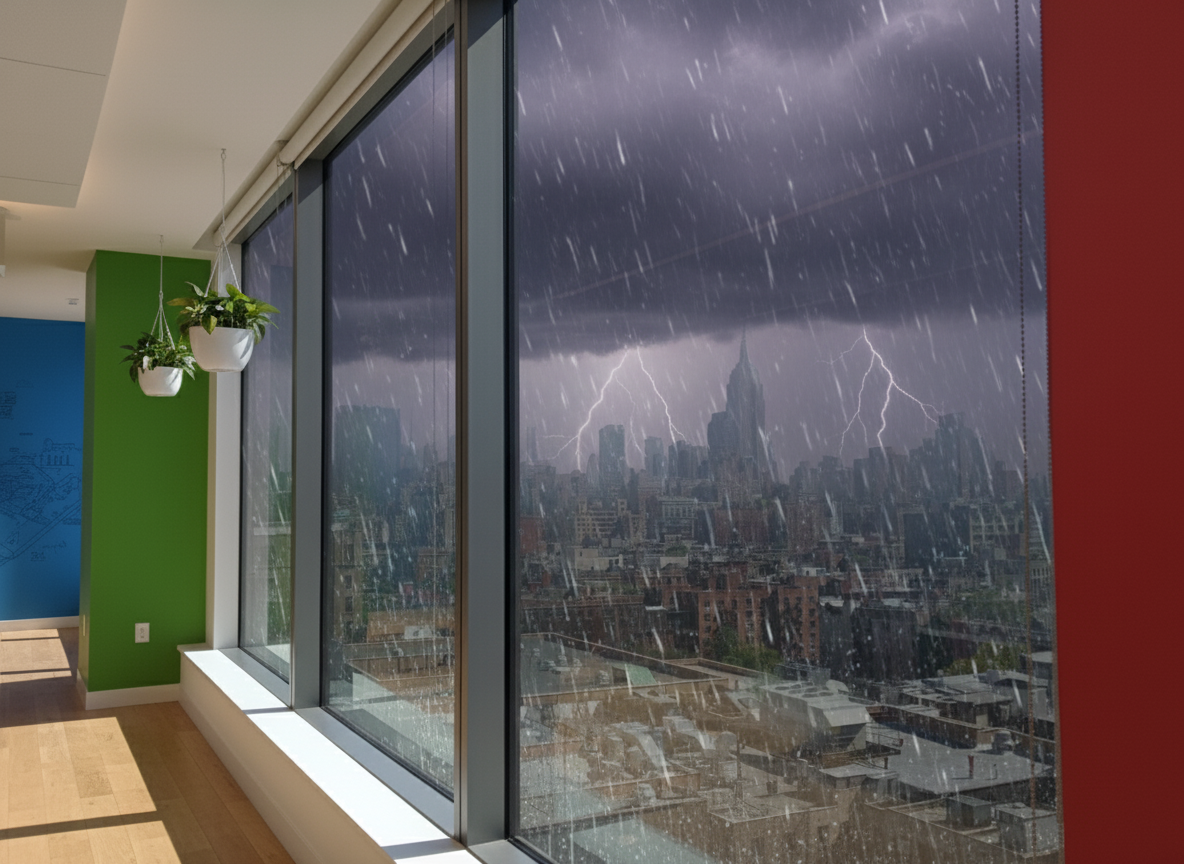
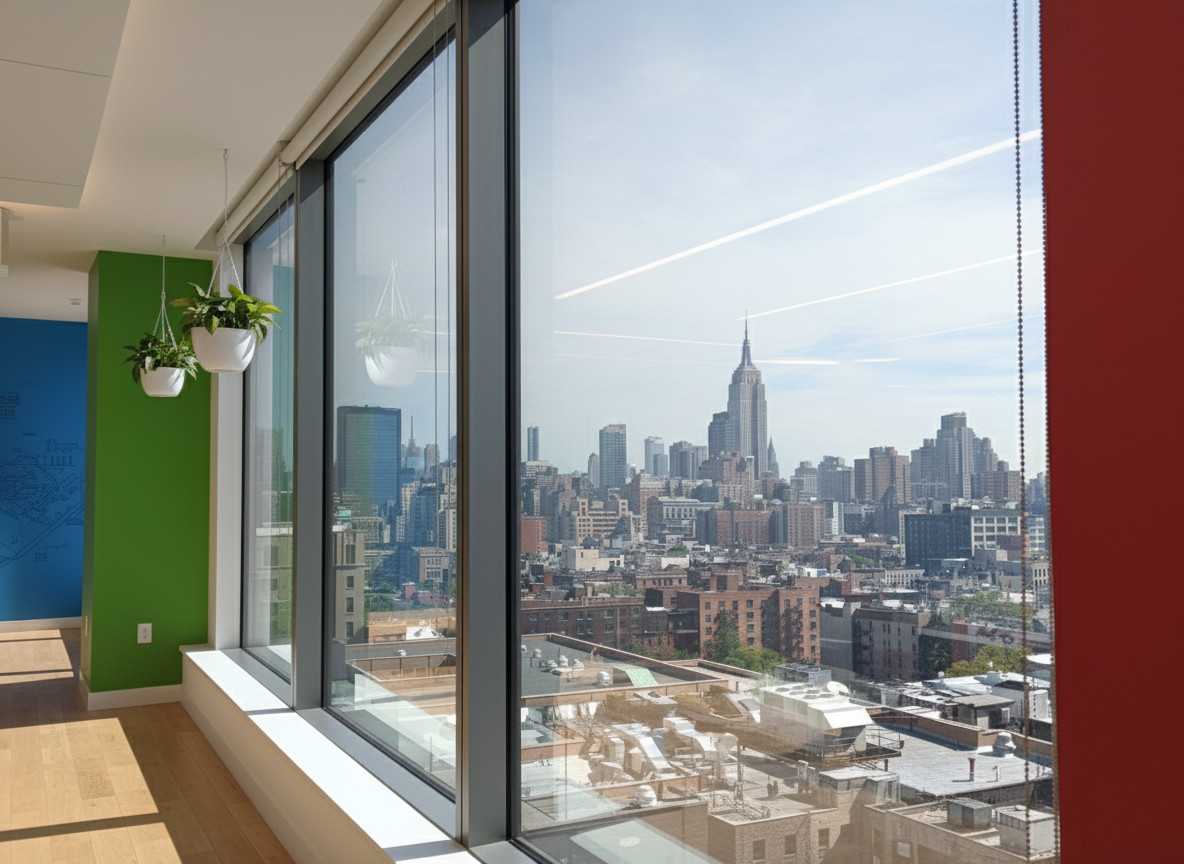
Update current virtual office image

diff --git a/index.html b/index.html
@@ -33,7 +33,7 @@
   </style>
 </head>
 <body>
-  <img src="./virtual-office-current.png?v=1776709858" alt="Current virtual office weather image">
-  <div class="stamp">Last updated: 2026-04-20 11:30 PDT</div>
+  <img src="./virtual-office-current.png?v=1776709915" alt="Current virtual office weather image">
+  <div class="stamp">Last updated: 2026-04-20 11:31 PDT</div>
 </body>
 </html>
